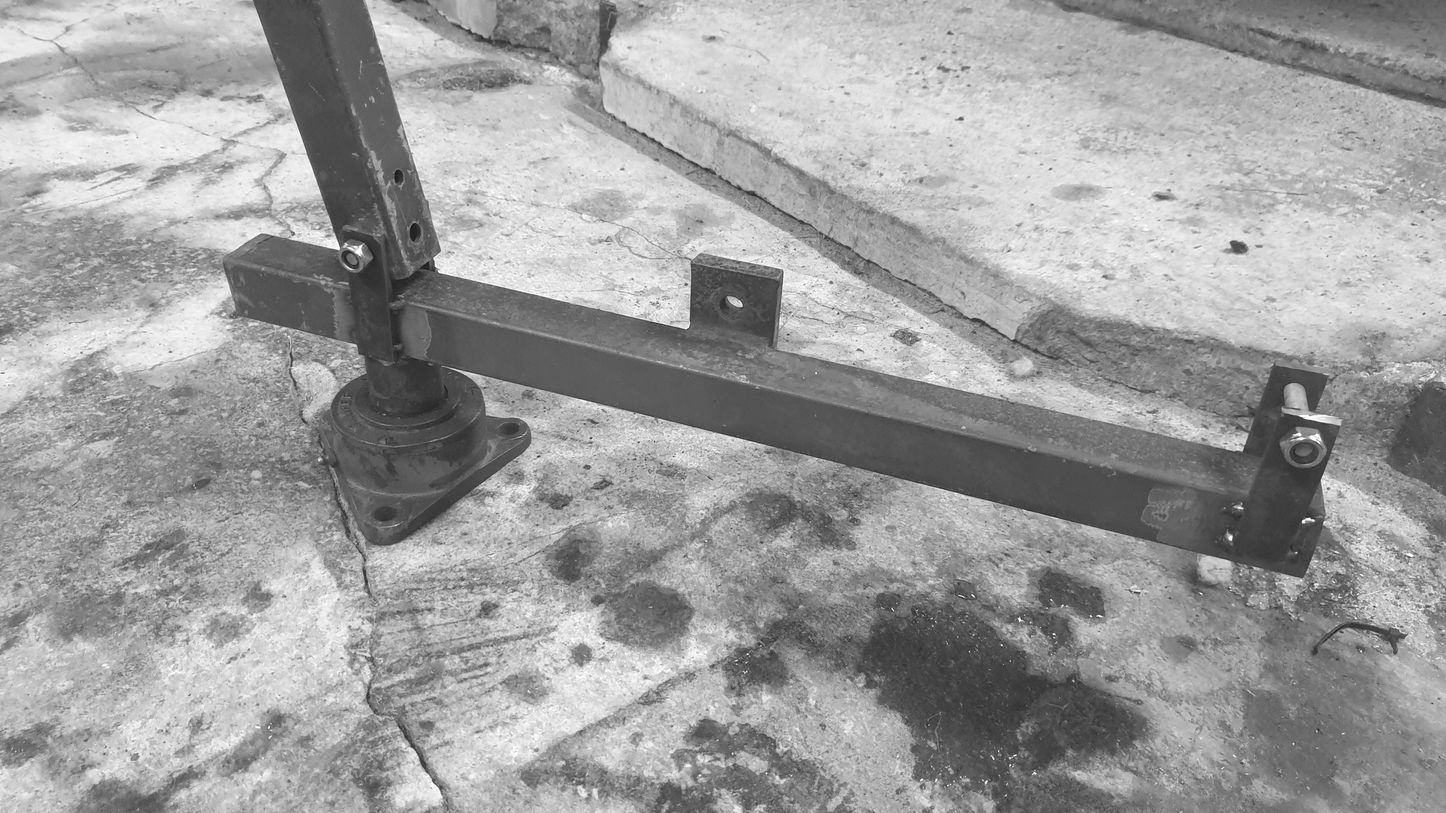
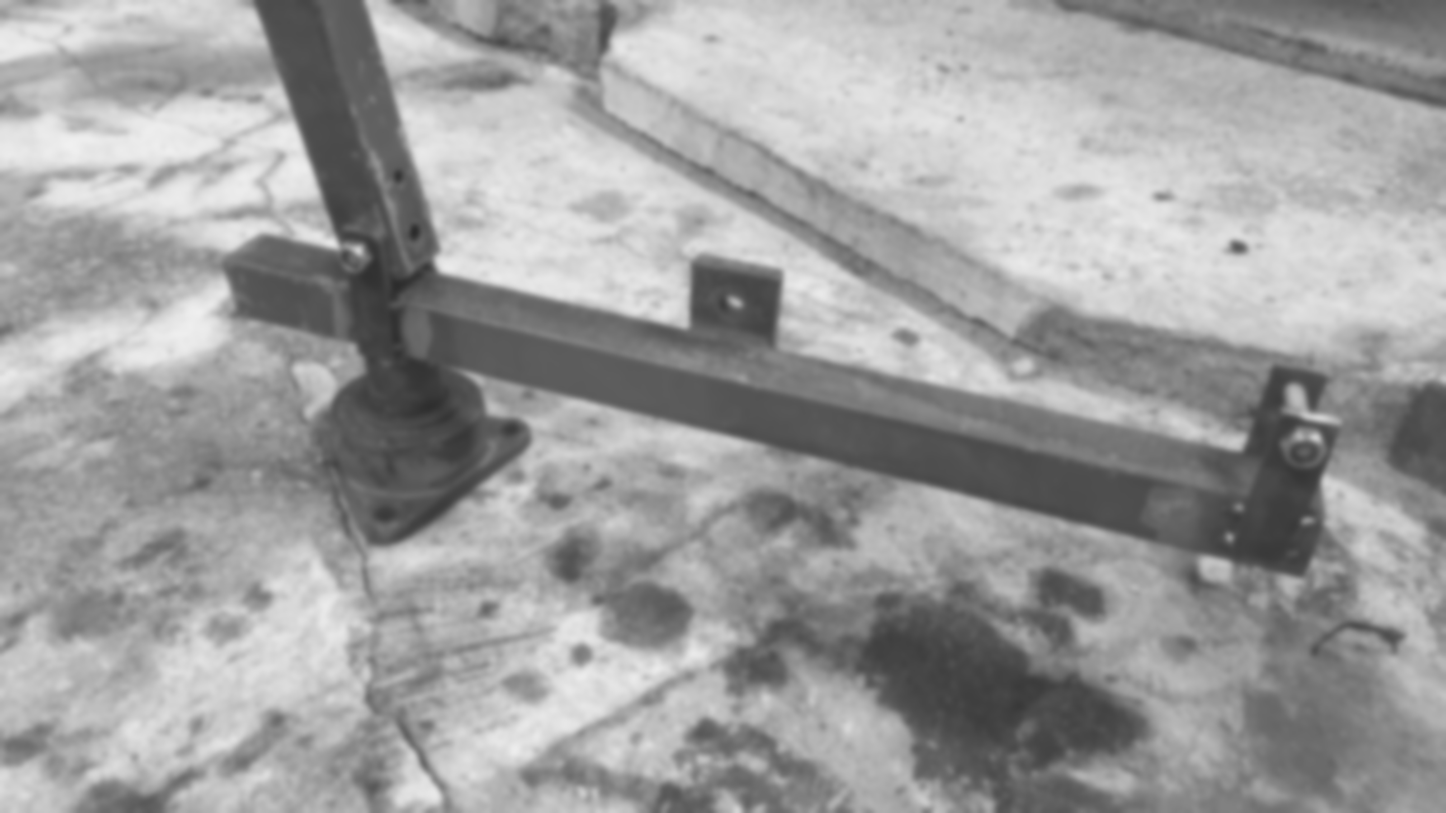
Fix all the bad stuff

diff --git a/imageProcessing/imageGenerator.py b/imageProcessing/imageGenerator.py
@@ -1,22 +1,29 @@
-from PIL import Image, ImageDraw
+from PIL import Image, ImageDraw, ImageEnhance
 from random import randint
 import math
 import sys
 import cv2
 import numpy
 import ctypes
+from scipy.spatial import Delaunay
+import matplotlib.pyplot as plt
 
+if __name__ == '__main__':
+    from imageParser import parseSource
+else:
+    from .imageParser import parseSource
 
 sys.setrecursionlimit(100000)
 
 MIN_DIST = 50
 MAX_CONNECTED = 10
 SENSITIVITY = 5
-DOT_SPACE = 7
-DOT_SENSITIVITY = 30
-IMG_NUMBER = 3
+DOT_SPACE = 5
+DOT_SENSITIVITY = 5
+IMG_NUMBER = 4
 SCALAR = 1
-CONTRAST = 0.5
+CONTRAST = 2
+# CONTRAST = 1 - CONTRAST
 MAX_DISTANCE = 100
 
 # get Screen Size
@@ -46,6 +53,7 @@ def drawPILImg(title, img, delay=0):
     opencvnew = cv2.cvtColor(numpy.array(img), cv2.COLOR_RGB2BGR)
     showImage(title, opencvnew)
     cv2.waitKey(delay)
+
 
 def distance(dx, dy):
     return math.sqrt(dx * dx + dy * dy)
@@ -77,8 +85,9 @@ def dfs(at, last, visited, adj, allPoints):
     for nxt in adj[at]:
         p1 = allPoints[nxt]
         p2 = allPoints[last]
-        #print(type(arr[p1[0], p1[1]]))
-        if distance(abs(p1[0] - p2[0]), abs(p1[1] - p2[1])) >= MIN_DIST * ((arr[p1[0], p1[1]] + SENSITIVITY) / 255) * SENSITIVITY:
+        # print(type(arr[p1[0], p1[1]]))
+        if distance(abs(p1[0] - p2[0]), abs(p1[1] - p2[1])) >= MIN_DIST * (
+                (arr[p1[0], p1[1]] + SENSITIVITY) / 255) * SENSITIVITY:
             points.append(allPoints[nxt])
             dfs(nxt, nxt, visited, adj, allPoints)
         else:
@@ -100,151 +109,130 @@ def dfs(at, last, visited, adj, allPoints):
 #                     mn = d
 #                     mnidx =
 
+parses = parseSource(f'{IMG_NUMBER}.source.jpg')
+edgeImg = Image.fromarray(parses['edges'])
+grayscaleImg = Image.fromarray(parses['img'])
 
-with Image.open(f"imgs/{IMG_NUMBER}.edges.jpg") as im:
-    rows, cols = im.size
-    allPoints = []
-    arr = im.load()
-    for row in range(rows):
-        for col in range(cols):
-            if arr[row, col] == 1:
-                allPoints.append((row, col))
+rows, cols = edgeImg.size
+allPoints = []
+arr = edgeImg.load()
+for row in range(rows):
+    for col in range(cols):
+        if arr[row, col] == 0:
+            allPoints.append((row, col))
 
-    vis = [[-1 for _ in range(cols)] for _ in range(rows)]
-    for idx, (i, j) in enumerate(allPoints):
-        vis[i][j] = idx
+vis = [[-1 for _ in range(cols)] for _ in range(rows)]
+for idx, (i, j) in enumerate(allPoints):
+    vis[i][j] = idx
 
-    diffs = generate_diffs()
+diffs = generate_diffs()
 
-    adj = [[] for _ in allPoints]
-    root = allPoints[0]
-    for idx, (row, col) in enumerate(allPoints):
-        for diff in diffs:
-            newRow = row + diff[0]
-            newCol = col + diff[1]
-            if newRow < 0 or newCol < 0 or newRow >= rows or newCol >= cols:
+adj = [[] for _ in allPoints]
+if len(allPoints) == 0:
+    raise Exception('No edges detected')
+root = allPoints[0]
+for idx, (row, col) in enumerate(allPoints):
+    for diff in diffs:
+        newRow = row + diff[0]
+        newCol = col + diff[1]
+        if newRow < 0 or newCol < 0 or newRow >= rows or newCol >= cols:
+            continue
+        newIdx = vis[newRow][newCol]
+        if newIdx != -1:
+            adj[idx].append(newIdx)
+visited = [False for _ in allPoints]
+for i in range(len(allPoints)):
+    if not visited[i]:
+        points.append(allPoints[i])
+        dfs(i, i, visited, adj, allPoints)
+
+rows, cols = grayscaleImg.size
+rows *= SCALAR
+cols *= SCALAR
+# for row in range(rows):
+#    for col in range(cols):
+#        if arr[row, col] < 240:
+#            im.putpixel((row, col), 0)
+
+# búa til punktana á edgunum
+
+# generatea (semi)random punkta
+# teikna þríhyrninga
+grayscaleImg = grayscaleImg.convert("RGB")
+grayscaleImg = grayscaleImg.resize((rows, cols), Image.ANTIALIAS)
+
+arr = grayscaleImg.load()
+print(grayscaleImg.size, rows, cols)
+
+new = Image.new("RGBA", (rows, cols), (0, 0, 0, 0))
+
+print(len(points))
+draw = ImageDraw.Draw(new)
+print('Drawing selected points')
+for (x, y) in points:
+    r = 2
+    leftUpPoint = coords(x - r, y - r)
+    rightDownPoint = coords(x + r, y + r)
+    twoPointList = [leftUpPoint, rightDownPoint]
+    draw.ellipse(twoPointList, fill=(0, 0, 255, 255))
+    # im.putpixel(point, (255, 0, 0))
+print('Drawing all points')
+for (x, y) in allPoints:
+    r = 1
+    leftUpPoint = coords(x - r, y - r)
+    rightDownPoint = coords(x + r, y + r)
+    twoPointList = [leftUpPoint, rightDownPoint]
+    draw.ellipse(twoPointList, fill=(255, 0, 0, 255))
+    # im.putpixel(point, (255, 0, 0))
+    # im.paste(new, (0, 0), new)
+    # drawPILImg('d', im, 1)
+
+for idx, points in enumerate(adj):
+    for point in points:
+        # print(allPoints[idx], allPoints[point])
+        draw.line(coords(allPoints[idx][0], allPoints[idx][1], allPoints[point][0], allPoints[point][1]),
+                  fill=(64, 64, 0, 255))
+
+print('Drawing contrasted image')
+contrastEnhancer = ImageEnhance.Contrast(grayscaleImg)
+
+contrast = contrastEnhancer.enhance(CONTRAST)
+
+contrastArr = contrast.load()
+
+print('Drawing dots')
+dots = Image.new("RGBA", (rows, cols), (0, 0, 0, 0))
+dotsDraw = ImageDraw.Draw(dots)
+points = []
+where = [[-1 for _ in range(cols)] for _ in range(rows)]
+for x in range(0, rows, DOT_SPACE):
+    for y in range(0, cols, DOT_SPACE):
+        # print(randint(1, 100) / 100, contrastArr[row, col][0] / 255)
+        if randint(1, 100) / 100 >= (contrastArr[x, y][0] - DOT_SENSITIVITY) / 255:
+            r = 1
+            xn = x + randint(-1, 1)
+            yn = y + randint(-1, 1)
+            if xn < 0 or yn < 0 or xn >= rows or yn >= cols:
                 continue
-            newIdx = vis[newRow][newCol]
-            if newIdx != -1:
-                adj[idx].append(newIdx)
-    visited = [False for _ in allPoints]
-    for i in range(len(allPoints)):
-        if not visited[i]:
-            points.append(allPoints[i])
-            dfs(i, i, visited, adj, allPoints)
+            points.append([xn, -yn])
+            where[xn][yn] = len(points) - 1
+            leftUpPoint = coords(xn - r, yn - r)
+            rightDownPoint = coords(xn + r, yn + r)
 
-with Image.open(f"imgs/{IMG_NUMBER}.grayscale.jpg") as im:
+            twoPointList = [leftUpPoint, rightDownPoint]
+            dotsDraw.ellipse(twoPointList, fill=(0, 255, 0, 80))
+points = numpy.array(points)
 
-    rows, cols = im.size
-    rows *= SCALAR
-    cols *= SCALAR
-    # for row in range(rows):
-    #    for col in range(cols):
-    #        if arr[row, col] < 240:
-    #            im.putpixel((row, col), 0)
+print('Triangulating points')
+tri = Delaunay(points)
 
-    # búa til punktana á edgunum
+plt.rcParams["figure.figsize"] = (12, 20)
 
-    # generatea (semi)random punkta
-    # teikna þríhyrninga
-    im = im.convert("RGB")
+print(tri.simplices)
+plt.axis('off')
+plt.triplot(points[:, 0], points[:, 1], tri.simplices)
+# plt.plot(points[:, 0], points[:, 1], 'o')
+plt.show(bbox_inches='tight', pad_inches=0, transparent="True")
 
-    im = im.resize((rows, cols), Image.ANTIALIAS)
-
-    arr = im.load()
-    print(im.size, rows, cols)
-
-    new = Image.new("RGBA", (rows, cols), (0, 0, 0, 0))
-
-    print(len(points))
-    draw = ImageDraw.Draw(new)
-    for (x, y) in points:
-        r = 2
-        leftUpPoint = coords(x - r, y - r)
-        rightDownPoint = coords(x + r, y + r)
-        twoPointList = [leftUpPoint, rightDownPoint]
-        draw.ellipse(twoPointList, fill=(0, 0, 255, 255))
-        # im.putpixel(point, (255, 0, 0))
-    for (x, y) in allPoints:
-        r = 1
-        leftUpPoint = coords(x - r, y - r)
-        rightDownPoint = coords(x + r, y + r)
-        twoPointList = [leftUpPoint, rightDownPoint]
-        draw.ellipse(twoPointList, fill=(255, 0, 0, 255))
-        # im.putpixel(point, (255, 0, 0))
-        # im.paste(new, (0, 0), new)
-        # drawPILImg('d', im, 1)
-
-    for idx, points in enumerate(adj):
-        for point in points:
-            # print(allPoints[idx], allPoints[point])
-            draw.line(coords(allPoints[idx][0], allPoints[idx][1], allPoints[point][0], allPoints[point][1]),
-                      fill=(64, 64, 0, 255))
-
-    contrast = Image.new("RGB", (rows, cols), (0, 0, 0, 0))
-    #drawDots = ImageDraw.Draw(dots)
-
-    sm = 0
-    for i in range(rows):
-        for j in range(cols):
-            sm += arr[i, j][0]
-    avg = (sm / (rows * cols)) / 255
-
-    otherPoints = []
-    for i in range(0, rows):
-        for j in range(0, cols):
-            #print(i, j, rows, cols)
-            #print(arr[i, j])
-            #if randint(1, 1000) / 1000 >= math.pow((arr[i, j][0] / 255), 1 / 10):
-            #    otherPoints.append((i, j))
-            val = (arr[i, j][0] / 255)
-            offset = val - avg
-            diff = abs(offset) ** CONTRAST
-            if offset < 0:
-                color = int(255 * (avg - diff))
-            else:
-                color = int(255 * (avg + diff))
-            contrast.putpixel((i, j), (color, color, color))
-
-    contrastArr = contrast.load()
-    #contrast.show()
-
-    dots = Image.new("RGBA", (rows, cols), (0,0,0,0))
-    dotsDraw = ImageDraw.Draw(dots)
-    points = []
-    where = [[-1 for _ in range(cols)] for _ in range(rows)]
-    for x in range(0, rows, DOT_SPACE):
-        for y in range(0, cols, DOT_SPACE):
-            #print(randint(1, 100) / 100, contrastArr[row, col][0] / 255)
-            if randint(1, 100) / 100 >= (contrastArr[x, y][0] - DOT_SENSITIVITY) / 255:
-                r = 1
-                xn = x + randint(-1, 1)
-                yn = y + randint(-1, 1)
-                points.append((xn, yn))
-                where[xn][yn] = len(points) - 1
-                leftUpPoint = coords(xn - r, yn - r)
-                rightDownPoint = coords(xn + r, yn + r)
-
-                twoPointList = [leftUpPoint, rightDownPoint]
-                dotsDraw.ellipse(twoPointList, fill=(0, 255, 0))
-
-
-    contrast.paste(dots, (0, 0), dots)
-    contrast.show()
-    # dots.show()
-    # # for (x, y) in otherPoints:
-    #     r = 2
-    #     leftUpPoint = coords(x - r, y - r)
-    #     rightDownPoint = coords(x + r, y + r)
-    #     twoPointList = [leftUpPoint, rightDownPoint]
-    #     draw.ellipse(twoPointList, fill=(0, 255, 0, 255))
-
-
-    # draw.ellipse()
-    im.paste(new, (0, 0), new)
-
-    # im.show()
-    drawPILImg('d', im)
-    # draw.line((0, 0) + im.size, fill=64)
-    # draw.line((0, im.size[1], im.size[0], 0), fill=64)
-    # im.save("test.png", "PNG")
+contrast.paste(dots, (0, 0), dots)
+drawPILImg('contrast', contrast)

diff --git a/imageProcessing/imageParser.py b/imageProcessing/imageParser.py
@@ -2,10 +2,11 @@ import os
 import cv2
 import numpy as np
 
-if __name__ == '__main__':
-    from constants import IMG_DIR
-else:
-    from .constants import IMG_DIR
+from constants import IMG_DIR
+# if __name__ == '__main__':
+#     pass
+# else:
+#     from .constants import IMG_DIR
 
 import ctypes
 
@@ -60,6 +61,8 @@ def parseSource(filename):
     # thresh = cv2.bitwise_not(thresh, thresh)
 
     thresh_edges = cv2.Canny(thresh, 300, 400)
+
+    img = cv2.GaussianBlur(img,(15,15),0)
 
     # display_images = [img, raw_img_edges, thresh, thresh_edges]
     return {
